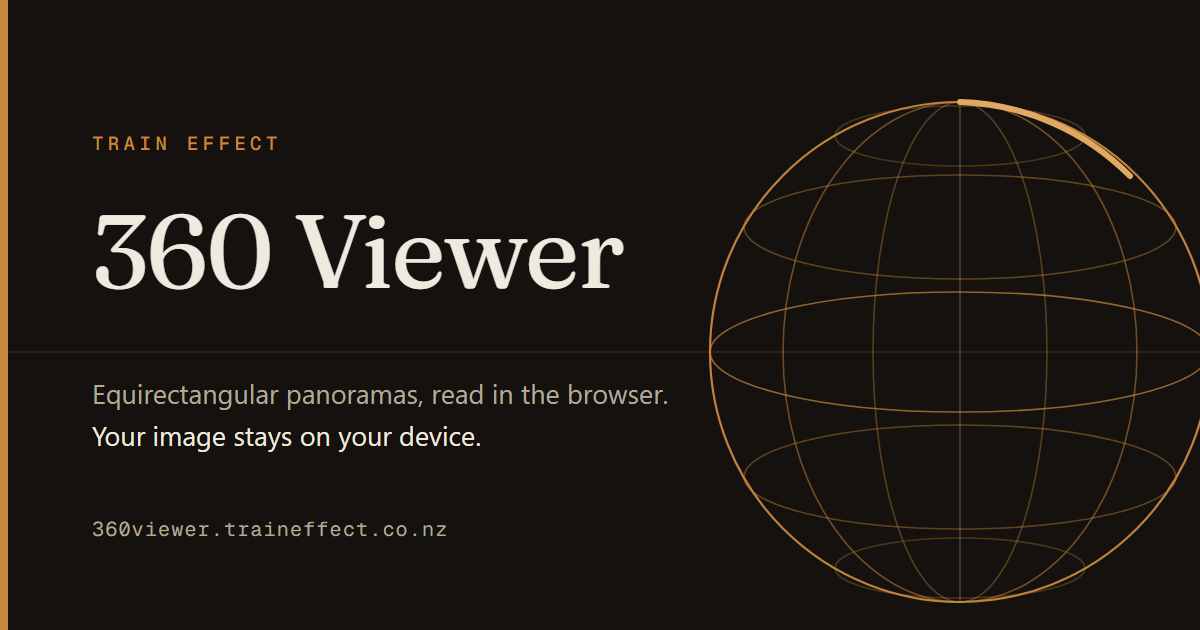
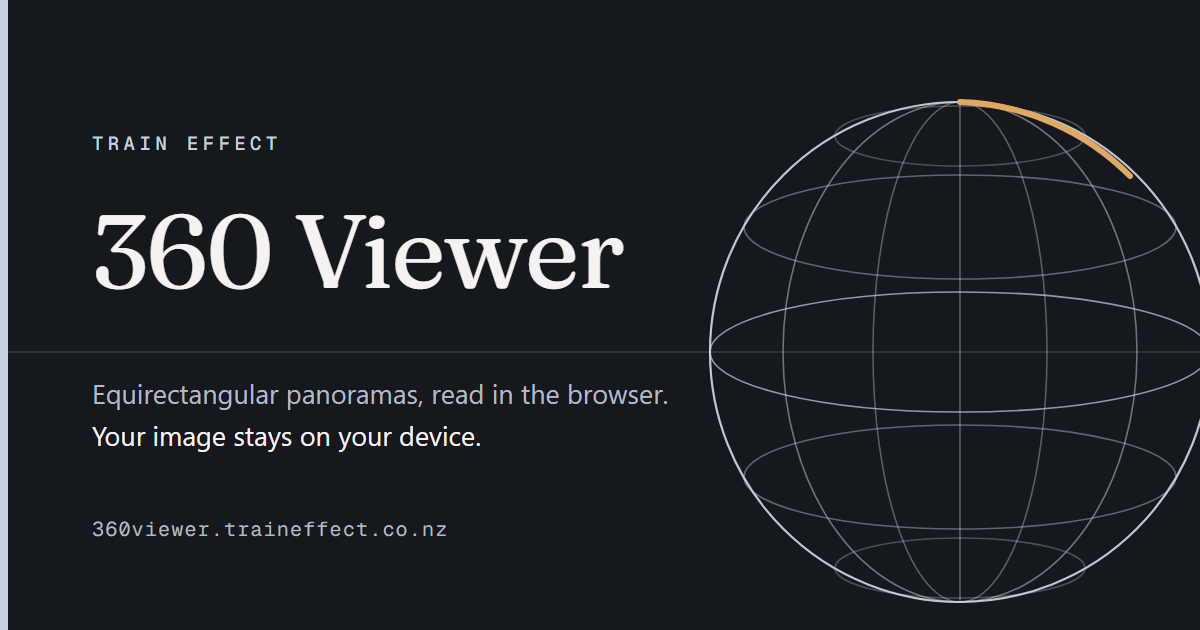
feat: Train Effect's own colours, and a line that says whose tool this is
The viewer wore the warm charcoal and amber of matthewpaterson.co.nz because Train Effect
had no palette of its own; it has one now. A cool slate ground near the brand ink, the
brand paper for text, the pale brand blue as the one accent, in the favicon and the social
card too. Under the plate, one line links back to traineffect.co.nz with the copyright.
The ground stays dark on purpose: bright chrome wrecks your read of a panorama's exposure.

diff --git a/app.css b/app.css
@@ -1,12 +1,14 @@
 /* 360 Viewer.
-   Palette, type and motion tokens follow the Train Effect design system:
-   traineffect-designer/clients/matthewpaterson/design-decision-record.md §2,
-   as shipped in astro-matthewpaterson/src/styles/tokens.css.
+   Colour follows Train Effect's own palette (traineffect-designer/clients/
+   traineffect/design-decision-record.md section 2; astro-traineffect
+   src/styles/tokens.css): the brand blues and the warm paper. Type stays
+   Fraunces and Geist Mono, which the two systems share.
 
-   The system's warm charcoal nocturne is used here rather than the light
-   ground planned for traineffect.co.nz. A viewer's chrome surrounds image
-   content, and a bright UI around a panorama wrecks your read of its
-   exposure. Deliberate exception, recorded in the design note. */
+   Dark ground, by design: a viewer's chrome surrounds image content, and a
+   bright interface around a panorama wrecks your read of its exposure. So
+   the paper is the text and the ground is a cool slate near the brand's ink,
+   with the pale brand blue as the one accent (Matt, 2026-10-07; before this
+   the viewer wore the warm charcoal and amber of matthewpaterson.co.nz). */
 
 /* Self-hosted so the page makes no third-party requests. Latin subset only,
    wght axis only: the two files together are about 66 KB. */
@@ -28,19 +30,23 @@
 }
 
 :root{
-  /* Colour: warm charcoal nocturne */
-  --ground:        #14110E;
-  --ground-raised: #1D1915;
-  --ground-sunk:   #0E0B09;
-  --paper:         #EFE9DF;
-  --paper-muted:   #B3A99B;
-  --paper-faint:   #756C5E;
-  --amber:         #C8893F;
-  --amber-soft:    #E0A862;
-  --hairline:      #2A251F;
-  /* Warm coral for fault states. Distinct from amber in hue, and 5.7:1 on
-     --ground so it passes AA at the 12px the strip uses. */
-  --alert:         #D9705A;
+  /* Colour: Train Effect, at night. A cool slate ground near the brand ink
+     (#1C1C1E), the brand paper for text, and the pale brand blue (#C3D2DF, the
+     tint traineffect.co.nz sets on its deep blue bands) as the accent. The two
+     amber names are kept so the rules below read unchanged; they now hold the
+     blue. */
+  --ground:        #15181C;
+  --ground-raised: #1C2026;
+  --ground-sunk:   #0F1215;
+  --paper:         #F7F2F2;
+  --paper-muted:   #B4B9C2;
+  --paper-faint:   #7A8089;
+  --amber:         #C3D2DF;
+  --amber-soft:    #DDE6EE;
+  --hairline:      #262B32;
+  /* Coral for fault states: distinct from the blue in hue, 5.4:1 on --ground,
+     so it passes AA at the 12px the strip uses. */
+  --alert:         #E07A64;
 
   /* Type */
   --font-display: "Fraunces Variable", Georgia, "Times New Roman", serif;
@@ -98,6 +104,18 @@ canvas{display:block}
   font-family:var(--font-mono);font-size:11px;line-height:1.8;
   letter-spacing:.03em;color:var(--paper-muted);margin-top:22px;
 }
+/* The one line that says whose tool this is, under the plate while the plate
+   is up. It goes with the intake, so it never sits over a panorama. */
+.foot{
+  position:absolute;left:0;right:0;bottom:18px;
+  text-align:center;
+  font-family:var(--font-mono);font-size:11px;line-height:1.8;
+  letter-spacing:.04em;color:var(--paper-faint);
+}
+.foot a{color:var(--paper-muted);text-decoration:none;border-bottom:1px solid var(--hairline);
+  transition:color var(--dur-fast) var(--ease),border-color var(--dur-fast) var(--ease)}
+.foot a:hover{color:var(--amber);border-bottom-color:var(--amber)}
+.foot a:focus-visible{outline:2px solid var(--amber);outline-offset:3px}
 #note{
   font-family:var(--font-mono);font-size:12px;line-height:1.65;
   color:var(--amber);margin:-10px 0 22px;display:none;white-space:pre-line;
@@ -123,7 +141,7 @@ canvas{display:block}
   position:fixed;left:0;right:0;bottom:0;z-index:10;
   display:flex;align-items:center;gap:22px;
   padding:12px 18px;
-  background:linear-gradient(to top,rgba(14,11,9,.95),rgba(14,11,9,0));
+  background:linear-gradient(to top,rgba(15,18,21,.95),rgba(15,18,21,0));
   font-family:var(--font-mono);font-size:12px;
   opacity:0;transition:opacity var(--dur-normal) var(--ease);
   pointer-events:none;

diff --git a/index.html b/index.html
@@ -39,6 +39,7 @@
     <input type="file" id="file" accept="image/*" hidden>
     <p class="fine">Drag to look around · Scroll or pinch to zoom · Arrow keys to pan</p>
   </div>
+  <p class="foot">A <a href="https://traineffect.co.nz/">Train Effect</a> tool · &copy; <span id="year">2026</span> Train Effect, Wellington</p>
 </div>
 
 <div id="strip">

diff --git a/README.md b/README.md
@@ -38,13 +38,17 @@ same-origin font files only and opens no outbound path.
 
 ## Design
 
-Palette, type and motion follow the Train Effect design system, as shipped in
-`astro-matthewpaterson/src/styles/tokens.css`.
+Colour follows Train Effect's own palette, as shipped in
+`astro-traineffect/src/styles/tokens.css`: a cool slate ground near the brand ink, the
+brand paper for text, and the pale brand blue as the one accent. Type is Fraunces and
+Geist Mono, which Train Effect and matthewpaterson.co.nz share. Until 2026-10-07 the
+viewer wore the warm charcoal and amber of matthewpaterson.co.nz, because Train Effect had
+no palette of its own yet; it has one now, and the viewer is a Train Effect tool, so it
+says so, in colour and in the one line under the plate that links back to the site.
 
-The system's warm charcoal nocturne is used here rather than the light ground planned for
-`traineffect.co.nz`. A viewer's chrome surrounds image content, and a bright interface
-around a panorama wrecks your read of its exposure. That exception is recorded in
-`traineffect-designer/clients/traineffect/360viewer-design-note.md`.
+The ground stays dark on purpose. A viewer's chrome surrounds image content, and a bright
+interface around a panorama wrecks your read of its exposure. That exception is recorded
+in `traineffect-designer/clients/traineffect/360viewer-design-note.md`.
 
 ## Deploying
 
